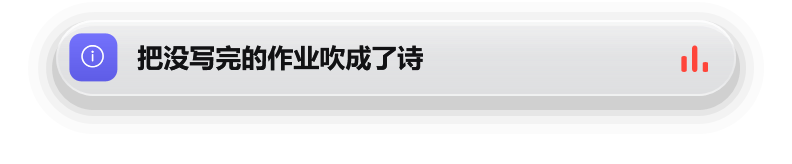
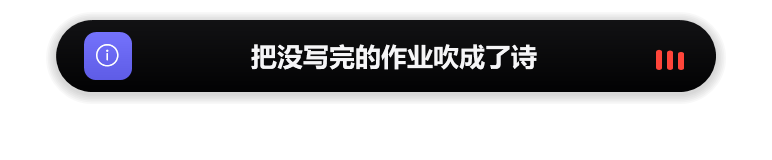
v4.0.0：版本号、README / CHANGELOG / v4 更新说明、介绍页 4.0、演示数据重拍文档截图；隐私清理（DSH 文档去掉本机路径）；发布构建不再把本机源码路径写进 dll / pdb

diff --git a/docs/index.html b/docs/index.html
@@ -3,9 +3,9 @@
 <head>
 <meta charset="utf-8">
 <meta name="viewport" content="width=device-width,initial-scale=1,viewport-fit=cover">
-<title>Qisland 3.0 · 该知道的，抬眼就知道。</title>
+<title>Qisland 4.0 · 该知道的，抬眼就知道。</title>
 <meta name="description" content="该知道的，抬眼就知道。给 Windows 做的灵动岛：课业雷达、Agent 审批、麦克风摄像头提示、日历、通话、专注，平时只显示时间。">
-<meta property="og:title" content="Qisland 3.0 · Windows 灵动岛">
+<meta property="og:title" content="Qisland 4.0 · Windows 灵动岛">
 <meta property="og:description" content="该知道的，抬眼就知道。给 Windows 做的灵动岛。">
 <meta property="og:image" content="media/qisland-v3-poster.png">
 <meta name="theme-color" content="#06070c">
@@ -280,12 +280,29 @@ footer a{color:var(--mute)}footer a:hover{color:var(--fg)}
 
 <main>
 <section class="slide" id="hero" data-label="首页" data-island="idle" data-hover="home" data-bg="#2846c8,#7b3fd1">
-  <div class="eyebrow rv" style="--i:0">Qisland 3.0 · Windows 灵动岛</div>
+  <div class="eyebrow rv" style="--i:0">Qisland 4.0 · Windows 灵动岛</div>
   <h1 class="rv" style="--i:1">该知道的，<br><span class="grad">抬眼就知道。</span></h1>
   <p class="lead rv" style="--i:2">下节课在哪、作业几点截止、哪条命令在等你批准、谁在用麦克风——只在需要时出现在屏幕顶上，其余时间它只是一个时钟。</p>
-  <div class="cta rv" style="--i:3"><a class="btn" href="https://github.com/Qiuizi/Qisland/releases/latest">下载 3.0</a><a class="btn ghost" href="#film">看宣传片</a></div>
+  <div class="cta rv" style="--i:3"><a class="btn" href="https://github.com/Qiuizi/Qisland/releases/latest">下载 4.0</a><a class="btn ghost" href="#film">看宣传片</a></div>
   <p class="hint rv" style="--i:4">把鼠标放到顶上的岛上试试 · 滚轮、方向键或右侧圆点翻页</p>
   <span class="chev"></span>
+</section>
+
+<section class="slide" id="v4" data-label="4.0 新变化" data-island="idle" data-hover="home" data-bg="#1b6fd8,#5a3fc4">
+  <div class="eyebrow rv" style="--i:0">4.0 新变化</div>
+  <h2 class="rv" style="--i:1">更像系统自带的那颗岛。</h2>
+  <div class="grid">
+    <div class="fcard rv" style="--i:2"><div class="ic" style="background:#64d2ff">◐</div><h4>两套玻璃</h4><p>「磨砂玻璃」用系统合成的背景模糊；新皮肤「液态玻璃」中间几乎透明，左上镜面亮边，里面的卡片和按钮也是同一套样式。</p></div>
+    <div class="fcard rv" style="--i:2"><div class="ic" style="background:#0071e3">➚</div><h4>点一下直达</h4><p>系统通知、微信 / QQ、终端里的 AI 会话、音乐，点一下就回到来源软件。</p></div>
+    <div class="fcard rv" style="--i:3"><div class="ic" style="background:#ff375f">∿</div><h4>弹簧动效</h4><p>展开带一点回弹、收起干脆，阴影四周均匀；玻璃合成在独立线程，动画时 UI 每帧约 1 ms。</p></div>
+    <div class="fcard rv" style="--i:3"><div class="ic" style="background:#30d158">⇆</div><h4>停靠与极简</h4><p>停在顶部、左侧或右侧；极简模式收起只剩一小段线。</p></div>
+    <div class="fcard rv" style="--i:4"><div class="ic" style="background:#ff9f0a">☀</div><h4>天气与健康</h4><p>7 天预报、最多 5 个城市、下雨大风提醒；喝水和久坐提醒。</p></div>
+    <div class="fcard rv" style="--i:4"><div class="ic" style="background:#bf5af2">⚙</div><h4>一个设置窗</h4><p>外观、停靠、提示、日历待办、翻译与 AI，一处改完；托盘照旧可用。</p></div>
+  </div>
+  <div class="rv" style="--i:5;display:flex;gap:18px;justify-content:center;align-items:flex-start;margin-top:22px">
+    <img src="assets/shots/03-home.png" alt="展开后的主页（演示数据）" loading="lazy" style="height:auto;max-height:min(24vh,230px);max-width:46%;width:auto">
+    <img src="assets/shots/04-widgets.png" alt="组件页（演示数据）" loading="lazy" style="height:auto;max-height:min(24vh,230px);max-width:46%;width:auto">
+  </div>
 </section>
 
 <section class="slide" id="music" data-pad="music" data-label="正在播放" data-island="music" data-hover="musicE" data-bg="#c2408a,#ff7a3d">
@@ -349,9 +366,9 @@ footer a{color:var(--mute)}footer a:hover{color:var(--fg)}
     <div class="fcard rv" style="--i:2"><div class="ic" style="background:#30b0c7">⌁</div><h4>网络与校园网认证</h4><p>断网、恢复、换 Wi-Fi；需要网页认证时点一下打开登录页，开着代理也认得出真实网络。</p></div>
     <div class="fcard rv" style="--i:3"><div class="ic" style="background:#8e8e93">⇪</div><h4>大写锁定提示</h4><p>按下 Caps Lock 或 Num Lock，岛上告诉你现在的状态。</p></div>
     <div class="fcard rv" style="--i:3"><div class="ic" style="background:#5e5ce6">#</div><h4>验证码一键复制</h4><p>通知里的验证码单独弹出，点一下复制。只在内存里，不写日志。</p></div>
-    <div class="fcard rv" style="--i:4"><div class="ic" style="background:#0071e3">➚</div><h4>点哪跳哪</h4><p>点一条活动，切到对应的软件、终端会话或作业网页。</p></div>
+    <div class="fcard rv" style="--i:4"><div class="ic" style="background:#0071e3">➚</div><h4>点哪跳哪</h4><p>点一条活动（收起的胶囊也行），直接切到发消息的软件、终端会话、播放器或作业网页。</p></div>
     <div class="fcard rv" style="--i:4"><div class="ic" style="background:#bf5af2">↺</div><h4>改动账本</h4><p>对其他软件改过的每一处都记下来，托盘里一键还原，只删自己加的。</p></div>
-    <div class="fcard rv" style="--i:5"><div class="ic" style="background:#ff9f0a">▦</div><h4>小组件</h4><p>天气、日历、倒数日、系统状态，展开后左右翻页。</p></div>
+    <div class="fcard rv" style="--i:5"><div class="ic" style="background:#ff9f0a">▦</div><h4>小组件</h4><p>7 天天气和多城市、喝水与久坐、日历、待办提醒、剪贴板置顶，展开后左右翻页。</p></div>
     <div class="fcard rv" style="--i:5"><div class="ic" style="background:#30d158">⌘</div><h4>Island API</h4><p>本机 <code>127.0.0.1:9840</code>，脚本、CI、别的工具都能往岛上推卡片。</p></div>
   </div>
 </section>
@@ -394,8 +411,8 @@ footer a{color:var(--mute)}footer a:hover{color:var(--fg)}
   <div class="eyebrow rv" style="--i:0">三十秒开始</div>
   <h1 class="rv" style="--i:1">该知道的，<br><span class="grad">抬眼就知道。</span></h1>
   <p class="lead rv" style="--i:2">需要 Windows 10 或 11 和 .NET 8 桌面运行时。下载、解压、运行 <code>Qisland.exe</code>。开源免费。</p>
-  <div class="cta rv" style="--i:3"><a class="btn" href="https://github.com/Qiuizi/Qisland/releases/latest">下载 3.0</a><a class="btn ghost" href="https://github.com/Qiuizi/Qisland#readme">GitHub 与文档</a></div>
-  <footer>Qisland 3.0 · MIT 许可 · 基于 <a href="https://github.com/JudeKwong/WinIslands">WinIslands</a> 起步</footer>
+  <div class="cta rv" style="--i:3"><a class="btn" href="https://github.com/Qiuizi/Qisland/releases/latest">下载 4.0</a><a class="btn ghost" href="https://github.com/Qiuizi/Qisland#readme">GitHub 与文档</a></div>
+  <footer>Qisland 4.0 · MIT 许可 · 基于 <a href="https://github.com/JudeKwong/WinIslands">WinIslands</a> 起步 · 动效与组件思路致谢 <a href="https://github.com/Renly1994/xiaotang-daozai">岛仔</a></footer>
 </section>
 </main>
 

diff --git a/README.md b/README.md
@@ -6,12 +6,12 @@
 
 **该知道的，抬眼就知道。**
 
-![version](https://img.shields.io/badge/version-3.0.0-ff9f0a?style=flat-square)
+![version](https://img.shields.io/badge/version-4.0.0-ff9f0a?style=flat-square)
 ![platform](https://img.shields.io/badge/Windows-10%20%7C%2011-0a84ff?style=flat-square)
 ![.NET](https://img.shields.io/badge/.NET-8-512bd4?style=flat-square)
 ![license](https://img.shields.io/badge/license-MIT-30d158?style=flat-square)
 
-[下载 v3.0.0](https://github.com/Qiuizi/Qisland/releases/latest) · [宣传片](docs/media/qisland-v3.mp4) · [介绍页](https://qiuizi.github.io/Qisland/) · [v3 更新说明](docs/release-notes-v3.0.0.md)
+[下载 v4.0.0](https://github.com/Qiuizi/Qisland/releases/latest) · [宣传片](docs/media/qisland-v3.mp4) · [介绍页](https://qiuizi.github.io/Qisland/) · [v4 更新说明](docs/release-notes-v4.0.0.md) · [更新日志](CHANGELOG.md)
 
 </div>
 
@@ -41,15 +41,21 @@ Qisland 是给 Windows 做的「灵动岛」。它最早是为一个大学生自
 <!-- 截图占位：docs/assets/shots/21-call.png（通话中胶囊） -->
 <!-- 截图占位：docs/assets/shots/22-privacy-dots.png（麦克风 / 摄像头圆点） -->
 
+**v4 新的手感**
+- 两套玻璃皮肤：「磨砂玻璃」用 Windows 系统合成的背景模糊；「液态玻璃」参考 iOS 26——中间几乎透明，左上镜面亮边、内圈斜面、边缘一圈淡磨砂，岛里的卡片、通知列表和按钮也是同一套液态样式。托盘「外观」或设置窗里切换。
+- 点一下直达：点岛上任何一条（收起的胶囊也行），直接切到来源软件——系统通知回到发通知的应用，微信 / QQ 回到会话，终端里的 AI 会话回到那个终端，音乐回到播放器或浏览器标签页。
+- 岛仔同款弹簧动效，阴影四周均匀；可停在顶部、左侧或右侧，或者用极简模式只留一小段线。
+- 统一设置窗（托盘「设置…」）：外观、停靠、提示、天气、健康、日历待办、课程作业、翻译 / AI 一处改完。
+
 **学习**
 - 课表 `.ics`：课前 10 分钟提醒，上课时显示进度，首页列出今天剩下的课。
 - 作业雷达：雨课堂、学习通的截止时间，分 24 / 3 / 1 小时三档提醒，已交未批改单独列出，登录快过期会提前说。
+- 本机日程：月历里直接新建 / 编辑（全天、每周重复、地点）；待办可设提醒时间和每周重复。
 - 日历订阅：Outlook、Google、飞书、钉钉的 .ics 私密链接；开始前 10 分钟提醒，腾讯会议 / Zoom / Teams / Meet / 飞书 / 钉钉链接一键加入；支持每天、每周、每月（如「第二个周二」「最后一天」）、每年重复。
 
 **AI Agent**
 - 审批上岛：Codex 和 DeepSeek Harness 要你批准命令时，岛上直接点允许或拒绝；100 秒没点或岛没开，就照常回终端问你，从不默认同意。
 - 状态：Claude Code、Codex、DeepSeek Harness、豆包、Trae、WorkBuddy 跑完、出错、等你确认时，胶囊会变；Codex 额度显示在旁边。
-- 点哪跳哪：点一条活动，直接切到对应的终端、会话或作业网页。
 - 「AI」页：所有 Agent 会话（含 Gemini CLI、Cursor、Qwen Code、OpenCode）的状态和耗时，Codex / 豆包额度环，DeepSeek / Kimi 余额。
 - 接入其他工具：托盘「接入其他 AI 工具」里逐个开启，每一个都先弹窗说明改哪个文件、改什么，同意了才改，改前备份、记进改动账本、可还原。
 
@@ -64,7 +70,7 @@ Qisland 是给 Windows 做的「灵动岛」。它最早是为一个大学生自
 - 专注：自己的专注计时或 Windows 11 专注会话期间，只放行审批、通话和一小时内截止的作业，结束后汇成一条摘要。
 - 蓝牙耳机连上 / 断开和电量；断网、换 Wi-Fi、校园网需要认证、系统代理开关；大写 / 数字锁定。
 - 音乐：接入系统媒体控制（SMTC）的音乐软件和浏览器视频，封面、进度、逐行歌词都在岛上，可暂停和切歌。
-- 通知里的验证码一键复制；天气、待办、剪贴板、倒计时、文件架等组件，开哪些、怎么排自己定。
+- 通知里的验证码一键复制；天气（7 天、最多 5 个城市、天气提醒）、健康（喝水、久坐）、待办、剪贴板（可置顶）、倒计时、文件架等组件，开哪些、怎么排自己定。
 
 托盘「岛上提示」里每一类都能单独关掉。
 
@@ -105,7 +111,7 @@ Qisland 是给 Windows 做的「灵动岛」。它最早是为一个大学生自
 - 鼠标移上去展开，移开收起；滚轮切换主页、组件、待办、剪贴板、文件架、AI。
 - `Ctrl+Alt+T` 翻译选中文字，`Ctrl+Alt+K` 问 AI；托盘「翻译与 AI」里可关掉或改快捷键、填 Key。
 - `Ctrl+Alt+Q`：全屏时把岛叫回来，平时临时隐藏；也可以把鼠标推到岛正上方的屏幕顶边停一下。
-- 托盘右键：导入课表、扫码登录、日历订阅、岛上提示开关、外观、开机自启、改动账本。
+- 托盘右键：设置、导入课表、扫码登录、日历订阅、岛上提示开关、外观、停靠、动效、开机自启、改动账本。
 - 配置都是 `%APPDATA%\Qisland\` 下的纯文本（`todo.md`、`widgets.txt`、`countdown.txt` 等），可以直接改。
 - 天气地点写在 `weather.txt`（如 `北京 39.90,116.41`），留空就按网络位置自动判断；学校的雨课堂有专属域名的，写进 `yuketang-host.txt`。
 
@@ -138,7 +144,7 @@ curl -X DELETE http://127.0.0.1:9840/v1/island/push/build
 - 蓝牙电量只有通过免提协议上报电量的耳机才有。
 - 笔记本亮度键由固件处理，系统亮度弹窗屏蔽不掉。
 - 雨课堂、学习通改版时可能读不到作业，只影响这一项。
-- 玻璃外观靠定时截屏模糊，背后画面变化快时会稍有滞后。
+- 液态玻璃的边缘磨砂是几圈叠出来的近似渐变，做不出真正的折射；Win10 上玻璃退回定时截屏模糊，背后画面变化快时会稍有滞后。
 - 只在少数几台机器上测过，遇到问题欢迎提 [Issue](https://github.com/Qiuizi/Qisland/issues)。
 
 ## 构建
@@ -154,4 +160,4 @@ dotnet test tests\Qisland.Core.Tests
 
 ## 致谢
 
-基于 [JudeKwong/WinIslands](https://github.com/JudeKwong/WinIslands)（MIT）起步，交互参考了 [souverth/dynamic-island-4win](https://github.com/souverth/dynamic-island-4win) 和 [FlorianButz/DynamicWin](https://github.com/FlorianButz/DynamicWin)。MIT 许可，见 [LICENSE](LICENSE)。
+v4 的动效、天气、健康、剪贴板置顶、停靠、系统合成玻璃等不少思路来自 [岛仔 Daozai](https://github.com/Renly1994/xiaotang-daozai)（MIT），都是 C# / WPF 自行实现，明细见 [THIRD_PARTY.md](THIRD_PARTY.md)。基于 [JudeKwong/WinIslands](https://github.com/JudeKwong/WinIslands)（MIT）起步，交互参考了 [souverth/dynamic-island-4win](https://github.com/souverth/dynamic-island-4win) 和 [FlorianButz/DynamicWin](https://github.com/FlorianButz/DynamicWin)。MIT 许可，见 [LICENSE](LICENSE)。

diff --git a/docs/release-notes-v4.0.0.md b/docs/release-notes-v4.0.0.md
@@ -1,0 +1,47 @@
+# Qisland v4.0.0
+
+第四个大版本。该知道的，抬眼就知道。
+
+这一版把岛做得更像系统自带的东西：动起来有弹性、玻璃是系统合成的、点一下就回到发消息的那个软件；同时把雨课堂、音乐、天气这些天天用的部分做稳、做全。
+
+## 外观与手感
+- **两套玻璃皮肤**：「磨砂玻璃」用 Windows 系统合成的背景模糊（Windows.UI.Composition 宿主背景画刷），不再定时截屏，背后画面变化也不滞后；Win10 或合成不可用时自动退回截屏模糊，托盘「外观」里可选 系统 / 截屏 / 不模糊。
+- **新皮肤「液态玻璃」**：参考 iOS 26 的 Liquid Glass——中间几乎透明，外沿一道左上最亮的镜面亮边和内圈斜面亮边，边缘一圈淡淡的磨砂，岛弹动时高光会跟着轻轻晃；跟随系统浅色 / 深色。岛里面的组件卡片、通知列表、按钮和标签也换成同一套液态玻璃样式（共用一份皮肤样式，静态画刷，不加逐帧开销）。
+- **阴影修好了**：收起和展开时阴影都均匀落在胶囊四周、只略往下偏，不再出现偏右下的一块灰板。
+- **动效**：参考岛仔的弹簧参数重写——展开带一点回弹、收起不回弹，悬停微微胀大，内容随形状逐步出现，翻页带速度的交叉滑动；托盘「动效」可选 完整 / 跟随系统 / 精简。
+- **停靠与极简**：可停在顶部居中、左侧或右侧（侧边收起为竖向胶囊，展开从边缘滑出）；极简模式收起时只剩一小段线，靠近才展开。
+- **流畅度**：玻璃合成挪到独立线程，动画时 UI 线程每帧从 5–7 ms 降到约 1 ms；内存护栏回收后不再反复触发。
+- 12 小时制时钟开关；OLED 防烧屏像素位移（默认关）。
+
+## 点一下就过去
+- 点岛上的任何一条（收起的胶囊也一样），直接切到来源软件：系统通知按发通知的应用（含商店应用）打开，微信 / QQ 回到会话窗口，终端里的 AI 会话回到对应的终端窗口，音乐回到播放器或正在播的浏览器标签页，作业打开网页，日程打开日历。
+- Win11 下前台切换更可靠；每次跳转都记日志（目标和结果）。岛本身仍然不抢焦点。
+
+## 学习
+- **雨课堂更稳**：保存滚动更新的登录 Cookie（DPAPI 加密），疑似掉线要两次确认，网络 / 门户 / 5xx 当临时问题，误判过期每 30 分钟自愈；Cookie 缺失时不再无限重试，直接提示扫码。
+- **本机日程**：在月历里新建 / 编辑 / 删除（全天、每周重复、地点），和 .ics 订阅一起提前提醒，DPAPI 加密存在本机。
+- **待办提醒与每周重复**：行内显示「⏰ 今天 20:00」，到点岛上提醒，重复待办勾掉自动挪到下一次。
+
+## 音乐
+- 支持任何接入系统媒体控制（SMTC）的播放器，网易云 SMTC 与本机日志合并，进度更准。
+- 歌词对齐修正：稳定排序、同时间戳的双语行合并为翻译、严格匹配候选（时长差 ≤ 3 秒，排除 Live / Remix / 伴奏）；酷狗、汽水音乐优先读本机已下载的歌词缓存（只读）。
+
+## AI
+- **划词翻译**（`Ctrl+Alt+T`）和 **问 AI**（`Ctrl+Alt+K`）：岛上左右对照、复制、替换原文、粘贴到豆包（只粘贴不发送）；快捷键被占用时自动换备用组合。
+- **AI 页**：Claude Code、Codex、DeepSeek Harness、Gemini CLI、Cursor、Qwen Code、OpenCode 等会话状态和耗时，Codex / 豆包额度环，DeepSeek / Kimi 余额。豆包会员额度为非官方接口，自愿连接、只读。
+- **接入其他 AI 工具**：逐个征得同意后才改配置，改前备份、记进改动账本、一键还原。
+- **审批**：只有 Codex 和 DeepSeek Harness 能在岛上点允许 / 拒绝；Claude Code 等你确认时只弹出等待提示。
+
+## 组件
+- **天气**：Open-Meteo 7 天 + 逐小时为主（wttr.in 补充），15 分钟刷新；最多 5 个城市，卡片上点地名轮换；快下雨 / 雷阵雨 / 大风 / 高温 / 降温等天气提醒；图标动效。
+- **健康**：今天喝水量圆环和按小时柱状图，一键记一杯；连续用电脑时长；喝水 / 久坐提醒（默认关）。
+- **剪贴板置顶**：最多 10 条文字，DPAPI 加密落盘。
+- **统一设置窗**（托盘「设置…」）：外观与停靠、岛上提示、天气、健康、日历与待办、课程作业、翻译 / AI / 快捷键、接入其他软件，一处改完。
+
+## 致谢
+动效、天气、健康、剪贴板置顶、OLED 位移、歌词缓存等不少思路来自 [岛仔 Daozai](https://github.com/Renly1994/xiaotang-daozai)（MIT）；天气数据来自 Open-Meteo 和 wttr.in。详见 [THIRD_PARTY.md](../THIRD_PARTY.md)。
+
+## 已知限制
+- 液态玻璃的边缘磨砂是分几圈叠出来的近似渐变，系统合成做不出真正的折射。
+- 微信 / QQ 新版来电窗口标题没逐一核对，来电提醒可能认不出（接通后的「通话中」不受影响）。
+- 蓝牙电量只有走免提协议（HFP）上报电量的耳机能读到。

diff --git a/THIRD_PARTY.md b/THIRD_PARTY.md
@@ -61,6 +61,6 @@ WinIslands 应用本体为 **MIT License**（见 [LICENSE](LICENSE)）。
 | wttr.in | 自动定位时的地名、坐标与月相（Open-Meteo 不可用时兜底） | 公开免费服务 |
 | 岛仔 Daozai（Renly1994/xiaotang-daozai） | 思路参考：Open-Meteo 7 天预报与 15 分钟刷新、多城市（最多 5 个 + 自动定位）与岛上切换、中文城市名搜索规则（去「市/县/区/省」、省份查省会、两字名补「市」、跳过机场车站等地物、按精确匹配和人口排序、0.05° 去重）、天气图标动效（太阳转、雨雪落、闪电闪，进页面 / 悬停时短暂播放后静止）、数据过旧提示；健康页的喝水（250 ml 一杯、2000 ml 目标、45 分钟、9–22 点、午休静默、按小时柱状）与久坐提醒（连续 60 分钟）；剪贴板置顶；OLED 像素位移。全部 C# / WPF 自行实现，未复制代码。省会对照表为自行整理；天气提醒规则（快下雨 / 雷阵雨 / 下雪 / 大风 / 高温 / 严寒 / 大降温）为 Qisland 自有 | MIT |
 | 岛仔 Daozai（Renly1994/xiaotang-daozai） | 思路参考（v4 第四阶段）：待办提醒与每周重复、本地日历编辑器、统一设置窗、左右侧边停靠（竖向收起胶囊、面板从边缘滑出）与极简小条。C# / WPF 自行实现，未复制代码；待办提醒以 ⏰ / 🔁 写在 todo.md 行内为 Qisland 自有格式 | MIT |
-| 岛仔 Daozai（Renly1994/xiaotang-daozai） | 思路参考：液态玻璃的系统合成模糊底板（单独的无重定向位图置顶窗口 + Windows.UI.Composition 宿主背景画刷，按岛的圆角裁剪、紧贴在岛下面；见其 composition.rs）。C# 自行实现，未复制代码 | MIT |
+| 岛仔 Daozai（Renly1994/xiaotang-daozai） | 思路参考：磨砂玻璃（v3 时叫液态玻璃）的系统合成模糊底板（单独的无重定向位图置顶窗口 + Windows.UI.Composition 宿主背景画刷，按岛的圆角裁剪、紧贴在岛下面；见其 composition.rs）。C# 自行实现，未复制代码 | MIT |
 | vitrio（eamonliu/vitrio）、liquid-glass（archisvaze/liquid-glass）、OpenGlass | 思路参考：液态玻璃皮肤的观感拆解（中间通透、边缘折射带、外沿镜面描边 + 内圈斜面亮边、光源方向的高光）。用 Windows 合成视觉和 WPF 画刷自行近似，未复制代码 | MIT |
 

diff --git a/CHANGELOG.md b/CHANGELOG.md
@@ -1,0 +1,22 @@
+# 更新日志
+
+每个版本的完整说明见 `docs/release-notes-*.md` 和 [Releases](https://github.com/Qiuizi/Qisland/releases)。
+
+## v4.0.0（2026-11-20）
+
+该知道的，抬眼就知道。完整说明：[docs/release-notes-v4.0.0.md](docs/release-notes-v4.0.0.md)
+
+- 外观：「磨砂玻璃」改用系统合成模糊；新皮肤「液态玻璃」（iOS 26 风格，岛内卡片 / 列表 / 按钮同一套样式）；阴影四周均匀居中；岛仔同款弹簧动效，动效档位可选。
+- 停靠：顶部 / 左侧 / 右侧停靠，侧边竖向胶囊；极简模式。
+- 点一下直达来源软件：系统通知、微信 / QQ、终端 AI 会话、音乐、作业、日程；收起的胶囊也能点。
+- 学习：雨课堂登录保活更稳；本机日程（新建 / 编辑 / 每周重复）；待办提醒与每周重复。
+- 音乐：任意 SMTC 播放器；歌词对齐修正，酷狗 / 汽水本机歌词缓存。
+- AI：划词翻译、问 AI；AI 页多会话与额度（含豆包额度，自愿连接）；征得同意后接入其他 AI 工具；岛上审批只限 Codex 和 DeepSeek Harness，Claude Code 只显示等待提示。
+- 组件：天气 7 天 / 多城市 / 天气提醒；健康（喝水、久坐）；剪贴板置顶。
+- 统一设置窗；12 小时制；OLED 防烧屏位移。
+- 性能：玻璃合成移到独立线程（UI 每帧约 1 ms），内存护栏不再反复回收。
+- 致谢 [岛仔 Daozai](https://github.com/Renly1994/xiaotang-daozai)（MIT）。
+
+## v3.0.0
+
+见 [docs/release-notes-v3.0.0.md](docs/release-notes-v3.0.0.md)。

diff --git a/docs/deepseek-harness.md b/docs/deepseek-harness.md
@@ -1,8 +1,8 @@
 # DeepSeek Harness
 
-这台机器上的 DeepSeek Harness 是杭州深度求索的 Electron 桌面应用，版本 0.2.2-rc.1，不是命令行。
+DeepSeek Harness 是深度求索的 Electron 桌面应用（测试时版本 0.2.2-rc.1），不是命令行。
 
-- 程序：`D:\Program Files (x86)\DSH\DeepSeek Harness.exe`
+- 程序：`<安装目录>\DeepSeek Harness.exe`
 - 用户数据：`%APPDATA%\@deepseek-ai\dsh-desktop`
 - 里面有 Chromium 配置、IndexedDB、Local Storage、`logs\`、`desktop\settings.json`
 - `plugin-operations\operations.jsonl` 只是插件安装日志（例如 `@deepseek-ai/dsh-experimental-auto-review` 被 enable），不是会话事件
